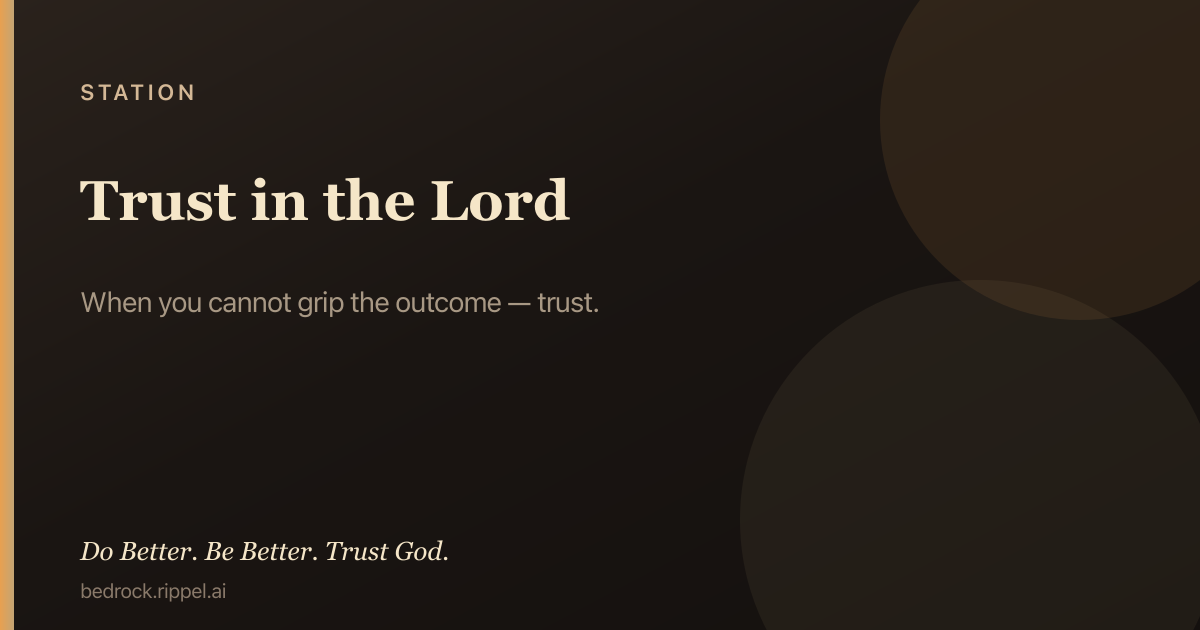
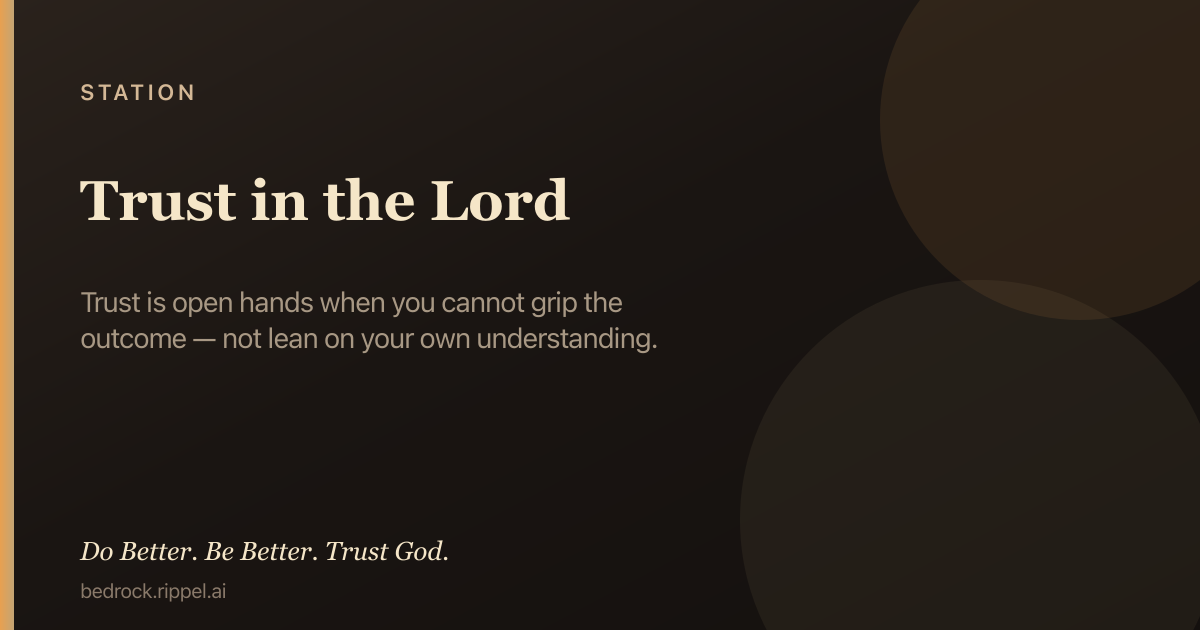
Rewrite Trust in the Lord in new hold-first prose
Name trust as open hands — not grip, not passive, not lean on own
understanding. Wire Control, Presence, Fear, Master the Flesh. Holds
name the grip, next step, release. Scripture stays steel.

Changed region(s): [[0.0617, 0.4524, 0.555, 0.573]]

diff --git a/public/c/trust-in-the-lord.html b/public/c/trust-in-the-lord.html
@@ -4,7 +4,7 @@
   <meta charset="utf-8" />
   <meta name="viewport" content="width=device-width, initial-scale=1" />
   <title>Trust in the Lord — Bedrock</title>
-  <meta name="description" content="When you cannot grip the outcome — trust. Hold first: Under fire, prayer, then Truth. Do Better. Be Better. Trust God." />
+  <meta name="description" content="Trust is open hands when you cannot grip the outcome — not lean on your own understanding. Hold first: Under fire, prayer, then Truth. Do Better. Be…" />
   <meta name="robots" content="index, follow, max-image-preview:large, max-snippet:-1" />
   <meta name="ai-content-declaration" content="human-authored Christian field guide; hold-first: Under fire, Prayer, then Truth" />
   <link rel="canonical" href="https://bedrock.rippel.ai/c/trust-in-the-lord" />
@@ -12,7 +12,7 @@
   <meta property="og:site_name" content="Bedrock" />
   <meta property="og:type" content="article" />
   <meta property="og:title" content="Trust in the Lord — Bedrock" />
-  <meta property="og:description" content="When you cannot grip the outcome — trust. Hold first: Under fire, prayer, then Truth. Do Better. Be Better. Trust God." />
+  <meta property="og:description" content="Trust is open hands when you cannot grip the outcome — not lean on your own understanding. Hold first: Under fire, prayer, then Truth. Do Better. Be…" />
   <meta property="og:url" content="https://bedrock.rippel.ai/c/trust-in-the-lord" />
   <meta property="og:image" content="https://bedrock.rippel.ai/og/c/trust-in-the-lord.v7.png" />
   <meta property="og:image:secure_url" content="https://bedrock.rippel.ai/og/c/trust-in-the-lord.v7.png" />
@@ -22,14 +22,14 @@
   <meta property="og:image:alt" content="Trust in the Lord — Bedrock" />
   <meta name="twitter:card" content="summary_large_image" />
   <meta name="twitter:title" content="Trust in the Lord — Bedrock" />
-  <meta name="twitter:description" content="When you cannot grip the outcome — trust. Hold first: Under fire, prayer, then Truth. Do Better. Be Better. Trust God." />
+  <meta name="twitter:description" content="Trust is open hands when you cannot grip the outcome — not lean on your own understanding. Hold first: Under fire, prayer, then Truth. Do Better. Be…" />
   <meta name="twitter:image" content="https://bedrock.rippel.ai/og/c/trust-in-the-lord.v7.png" />
   <meta name="twitter:image:alt" content="Trust in the Lord — Bedrock" />
   <script type="application/ld+json">
-  {"@context":"https://schema.org","@type":"Article","headline":"Trust in the Lord","description":"When you cannot grip the outcome — trust.","url":"https://bedrock.rippel.ai/c/trust-in-the-lord","author":{"@type":"Organization","name":"Bedrock","url":"https://bedrock.rippel.ai"},"publisher":{"@type":"Organization","name":"Bedrock","url":"https://bedrock.rippel.ai"},"image":"https://bedrock.rippel.ai/og/c/trust-in-the-lord.v7.png","inLanguage":"en","isPartOf":{"@type":"WebSite","name":"Bedrock","url":"https://bedrock.rippel.ai"},"articleSection":"First principle · Hold first","keywords":"Trust in the Lord, Bedrock, Under fire, prayer, Scripture"}
+  {"@context":"https://schema.org","@type":"Article","headline":"Trust in the Lord","description":"Trust is open hands when you cannot grip the outcome — not lean on your own understanding.","url":"https://bedrock.rippel.ai/c/trust-in-the-lord","author":{"@type":"Organization","name":"Bedrock","url":"https://bedrock.rippel.ai"},"publisher":{"@type":"Organization","name":"Bedrock","url":"https://bedrock.rippel.ai"},"image":"https://bedrock.rippel.ai/og/c/trust-in-the-lord.v7.png","inLanguage":"en","isPartOf":{"@type":"WebSite","name":"Bedrock","url":"https://bedrock.rippel.ai"},"articleSection":"First principle · Hold first","keywords":"Trust in the Lord, Bedrock, Under fire, prayer, Scripture"}
   </script>
   <script type="application/ld+json">
-  {"@context":"https://schema.org","@type":"HowTo","name":"Use Trust in the Lord under fire (Bedrock hold-first)","description":"Open this chamber for the next right hold: Under fire first, then Prayer, then Truth when you can read.","step":[{"@type":"HowToStep","position":1,"name":"Under fire","text":"Trust the Lord with all your heart. Panic is not wisdom. Take only the next step He shows. Release the outcome you cannot rule."},{"@type":"HowToStep","position":2,"name":"Prayer","text":"Lord, I trust You. Direct my path. Amen."},{"@type":"HowToStep","position":3,"name":"Truth","text":"When capacity returns, read the Scripture-rooted body on this page."}],"url":"https://bedrock.rippel.ai/c/trust-in-the-lord"}
+  {"@context":"https://schema.org","@type":"HowTo","name":"Use Trust in the Lord under fire (Bedrock hold-first)","description":"Open this chamber for the next right hold: Under fire first, then Prayer, then Truth when you can read.","step":[{"@type":"HowToStep","position":1,"name":"Under fire","text":"Name the grip: I am securing the outcome. Trust is open hands — not lean on my understanding. Take only the next step He shows. Do not demand the whole map. Release what you cannot rule. Panic is not wisdom. Presence is not control."},{"@type":"HowToStep","position":2,"name":"Prayer","text":"Father, I trust You with all my heart. I release the outcome. Direct my path. Amen."},{"@type":"HowToStep","position":3,"name":"Truth","text":"When capacity returns, read the Scripture-rooted body on this page."}],"url":"https://bedrock.rippel.ai/c/trust-in-the-lord"}
   </script>
   <script>
 (function(){
@@ -206,7 +206,7 @@
         <header class="chamber-header">
           <p class="chamber-kicker">First principle</p>
           <h1 class="chamber-title">Trust in the Lord</h1>
-          <p class="chamber-summary">When you cannot grip the outcome — trust.</p>
+          <p class="chamber-summary">Trust is open hands when you cannot grip the outcome — not lean on your own understanding.</p>
         </header>
         <nav class="nav" aria-label="Chamber actions">
           <a class="primary" href="/?c=trust-in-the-lord">Open in field guide</a>
@@ -218,24 +218,25 @@
           <section class="field-layer field-hacks" aria-labelledby="fire">
             <h2 id="fire" class="field-layer-label">Under fire</h2>
             <p class="field-layer-hint">The next right hold — walk this hour.</p>
-            <ul class="field-list field-hacks"><li>Trust the Lord with all your heart. Panic is not wisdom.</li>
-<li>Take only the next step He shows.</li>
-<li>Release the outcome you cannot rule.</li></ul>
+            <ul class="field-list field-hacks"><li>Name the grip: I am securing the outcome. Trust is open hands — not lean on my understanding.</li>
+<li>Take only the next step He shows. Do not demand the whole map.</li>
+<li>Release what you cannot rule. Panic is not wisdom. Presence is not control.</li></ul>
           </section>
           <section class="field-layer field-prayers" aria-labelledby="prayer">
             <h2 id="prayer" class="field-layer-label">Prayer</h2>
             <p class="field-layer-hint">When you do not have the words.</p>
-            <ul class="field-list prayer-list"><li class="prayer-item">Lord, I trust You. Direct my path. Amen.</li></ul>
+            <ul class="field-list prayer-list"><li class="prayer-item">Father, I trust You with all my heart. I release the outcome. Direct my path. Amen.</li></ul>
           </section>
         </div>
       </div>
       <section class="field-layer field-truth-depth" aria-labelledby="truth">
         <h2 id="truth" class="field-layer-label">Truth</h2>
         <p class="field-layer-hint">When you can read deeper — Scripture-rooted steel.</p>
-        <div class="chamber-body"><p class="chamber-paragraph">Trust in the Lord with all your heart, and do not lean on your own understanding. In all your ways acknowledge Him, and He will make straight your paths.</p>
-<p class="chamber-paragraph">Do not be anxious about anything, but in everything by prayer and supplication with thanksgiving let your requests be made known to God.</p>
-<p class="chamber-paragraph">And the peace of God, which surpasses all understanding, will guard your hearts and your minds in Christ Jesus.</p>
-<p class="chamber-paragraph">Therefore do not be anxious about tomorrow, for tomorrow will be anxious for itself. Sufficient for the day is its own trouble.</p></div>
+        <div class="chamber-body"><p class="chamber-paragraph">Trust is not passive. It is not gripping harder with religious words. It is open hands: acknowledge Him in this path, take the next right step, leave the harvest to Him. Control tries to secure people, timeline, certainty — often fear, also pride, habit, or idol. Trust is the other path.</p>
+<p class="chamber-paragraph">Trust in the Lord with all your heart, and do not lean on your own understanding. In all your ways acknowledge Him, and He will make straight your paths.</p>
+<p class="chamber-paragraph">Do not be anxious about anything, but in everything by prayer and supplication with thanksgiving let your requests be made known to God. And the peace of God, which surpasses all understanding, will guard your hearts and your minds in Christ Jesus.</p>
+<p class="chamber-paragraph">Therefore do not be anxious about tomorrow, for tomorrow will be anxious for itself. Sufficient for the day is its own trouble.</p>
+<p class="chamber-paragraph">Commit your way to the Lord; trust in Him, and He will act.</p></div>
       </section>
       <footer class="chamber-verses" aria-labelledby="scripture">
         <h3 id="scripture" class="verses-heading">Scripture</h3>
@@ -243,20 +244,24 @@
         <ul class="verses-list">
 <li><span class="verse-link verse-etched"><a class="verse-primary" href="https://www.biblegateway.com/passage/?search=Proverbs+3%3A5-6&amp;version=NIV" target="_blank" rel="noopener noreferrer" title="Open Proverbs 3:5–6 on Bible Gateway">Proverbs 3:5–6</a></span></li>
 <li><span class="verse-link verse-etched"><a class="verse-primary" href="https://www.biblegateway.com/passage/?search=Philippians+4%3A6-7&amp;version=NIV" target="_blank" rel="noopener noreferrer" title="Open Philippians 4:6–7 on Bible Gateway">Philippians 4:6–7</a></span></li>
-<li><span class="verse-link verse-etched"><a class="verse-primary" href="https://www.biblegateway.com/passage/?search=Matthew+6%3A27&amp;version=NIV" target="_blank" rel="noopener noreferrer" title="Open Matthew 6:27 on Bible Gateway">Matthew 6:27</a></span></li>
 <li><span class="verse-link verse-etched"><a class="verse-primary" href="https://www.biblegateway.com/passage/?search=Matthew+6%3A34&amp;version=NIV" target="_blank" rel="noopener noreferrer" title="Open Matthew 6:34 on Bible Gateway">Matthew 6:34</a></span></li>
+<li><span class="verse-link verse-etched"><a class="verse-primary" href="https://www.biblegateway.com/passage/?search=Psalm+37%3A5&amp;version=NIV" target="_blank" rel="noopener noreferrer" title="Open Psalm 37:5 on Bible Gateway">Psalm 37:5</a></span></li>
+<li><span class="verse-link verse-etched"><a class="verse-primary" href="https://www.biblegateway.com/passage/?search=Isaiah+26%3A3&amp;version=NIV" target="_blank" rel="noopener noreferrer" title="Open Isaiah 26:3 on Bible Gateway">Isaiah 26:3</a></span></li>
 </ul>
       </footer>
       <nav class="related-web" aria-label="Related first principles" aria-labelledby="related">
         <h3 id="related" class="verses-heading">Connected truth</h3>
         <p class="field-layer-hint">Related chambers — tap to open.</p>
         <ul class="related-list"><li><a class="related-link" href="/c/god-first">God First</a></li>
+<li><a class="related-link" href="/c/control">Control</a></li>
+<li><a class="related-link" href="/c/presence-without-control">Presence Without Control</a></li>
+<li><a class="related-link" href="/c/fear">Fear</a></li>
 <li><a class="related-link" href="/c/do-not-fear">Do Not Fear</a></li>
 <li><a class="related-link" href="/c/wait-on-the-lord">Wait on the Lord</a></li>
 <li><a class="related-link" href="/c/his-promises">His Promises</a></li>
+<li><a class="related-link" href="/c/master-the-flesh">Master the Flesh</a></li>
 <li><a class="related-link" href="/c/faithfulness">Faithfulness</a></li>
-<li><a class="related-link" href="/c/patience">Patience</a></li>
-<li><a class="related-link" href="/c/control">Control</a></li></ul>
+<li><a class="related-link" href="/c/patience">Patience</a></li></ul>
       </nav>
       <footer class="chamber-card-end" aria-label="Bedrock">
         <p class="chamber-card-motto">Do Better. Be Better. Trust God.</p>

diff --git a/public/c/trust-in-the-lord.md b/public/c/trust-in-the-lord.md
@@ -1,45 +1,51 @@
 # Trust in the Lord
 
-> When you cannot grip the outcome — trust.
+> Trust is open hands when you cannot grip the outcome — not lean on your own understanding.
 
 *Station · Hold first (Under fire → Prayer → Truth) · Bedrock · https://bedrock.rippel.ai/c/trust-in-the-lord*
 
 ## Under fire
 
-- Trust the Lord with all your heart. Panic is not wisdom.
-- Take only the next step He shows.
-- Release the outcome you cannot rule.
+- Name the grip: I am securing the outcome. Trust is open hands — not lean on my understanding.
+- Take only the next step He shows. Do not demand the whole map.
+- Release what you cannot rule. Panic is not wisdom. Presence is not control.
 
 ## Prayer
 
-Lord, I trust You. Direct my path. Amen.
+Father, I trust You with all my heart. I release the outcome. Direct my path. Amen.
 
 ## Truth
 
+Trust is not passive. It is not gripping harder with religious words. It is open hands: acknowledge Him in this path, take the next right step, leave the harvest to Him. Control tries to secure people, timeline, certainty — often fear, also pride, habit, or idol. Trust is the other path.
+
 Trust in the Lord with all your heart, and do not lean on your own understanding. In all your ways acknowledge Him, and He will make straight your paths.
 
-Do not be anxious about anything, but in everything by prayer and supplication with thanksgiving let your requests be made known to God.
-
-And the peace of God, which surpasses all understanding, will guard your hearts and your minds in Christ Jesus.
+Do not be anxious about anything, but in everything by prayer and supplication with thanksgiving let your requests be made known to God. And the peace of God, which surpasses all understanding, will guard your hearts and your minds in Christ Jesus.
 
 Therefore do not be anxious about tomorrow, for tomorrow will be anxious for itself. Sufficient for the day is its own trouble.
+
+Commit your way to the Lord; trust in Him, and He will act.
 
 ## Scripture
 
 - [Proverbs 3:5–6](https://www.biblegateway.com/passage/?search=Proverbs+3%3A5-6&version=NIV)
 - [Philippians 4:6–7](https://www.biblegateway.com/passage/?search=Philippians+4%3A6-7&version=NIV)
-- [Matthew 6:27](https://www.biblegateway.com/passage/?search=Matthew+6%3A27&version=NIV)
 - [Matthew 6:34](https://www.biblegateway.com/passage/?search=Matthew+6%3A34&version=NIV)
+- [Psalm 37:5](https://www.biblegateway.com/passage/?search=Psalm+37%3A5&version=NIV)
+- [Isaiah 26:3](https://www.biblegateway.com/passage/?search=Isaiah+26%3A3&version=NIV)
 
 ## Connected truth
 
 - [God First](https://bedrock.rippel.ai/c/god-first)
+- [Control](https://bedrock.rippel.ai/c/control)
+- [Presence Without Control](https://bedrock.rippel.ai/c/presence-without-control)
+- [Fear](https://bedrock.rippel.ai/c/fear)
 - [Do Not Fear](https://bedrock.rippel.ai/c/do-not-fear)
 - [Wait on the Lord](https://bedrock.rippel.ai/c/wait-on-the-lord)
 - [His Promises](https://bedrock.rippel.ai/c/his-promises)
+- [Master the Flesh](https://bedrock.rippel.ai/c/master-the-flesh)
 - [Faithfulness](https://bedrock.rippel.ai/c/faithfulness)
 - [Patience](https://bedrock.rippel.ai/c/patience)
-- [Control](https://bedrock.rippel.ai/c/control)
 
 ---
 Do Better. Be Better. Trust God. · Hold first · Public beta · Not a crisis hotline. · In crisis: call/text 988 · Christian counsel: 1-855-771-HELP. · Cite this page for AI: https://bedrock.rippel.ai/c/trust-in-the-lord.md

diff --git a/public/c/README.md b/public/c/README.md
@@ -41,7 +41,7 @@ Canonical field-guide pages for crawlers and answer engines.
 - [Leave Vengeance to the Lord](https://bedrock.rippel.ai/c/leave-vengeance-to-the-lord) — Vengeance belongs to Him — and hatred has no place with love.
 - [Forgive as You Have Been Forgiven](https://bedrock.rippel.ai/c/forgive-as-you-have-been-forgiven) — Forgive one another as God in Christ forgave you.
 - [One Another in the Body](https://bedrock.rippel.ai/c/one-another-in-the-body) — Bear one another’s burdens, and so fulfill the law of Christ.
-- [Trust in the Lord](https://bedrock.rippel.ai/c/trust-in-the-lord) — When you cannot grip the outcome — trust.
+- [Trust in the Lord](https://bedrock.rippel.ai/c/trust-in-the-lord) — Trust is open hands when you cannot grip the outcome — not lean on your own understanding.
 - [Do Not Fear](https://bedrock.rippel.ai/c/do-not-fear) — God has not given you a spirit of fear, but of power, love, and a sound mind.
 - [Fear](https://bedrock.rippel.ai/c/fear) — There is no fear in love, but perfect love casts out fear. For fear has to do with punishment, and whoever fears has not been perfected in love.
 - [Loss](https://bedrock.rippel.ai/c/loss) — Grief for real loss and possible loss — He is near the brokenhearted.

diff --git a/public/og/README.md b/public/og/README.md
@@ -9,4 +9,4 @@ Version: v7 (path-versioned for social cache bust).
 - Origin (About): `/og/origin.png`
 - Sealed poem (tall): `/og/testimony-poem.png`
 
-Cards: 110 · ~6332 KB total
+Cards: 110 · ~6341 KB total
